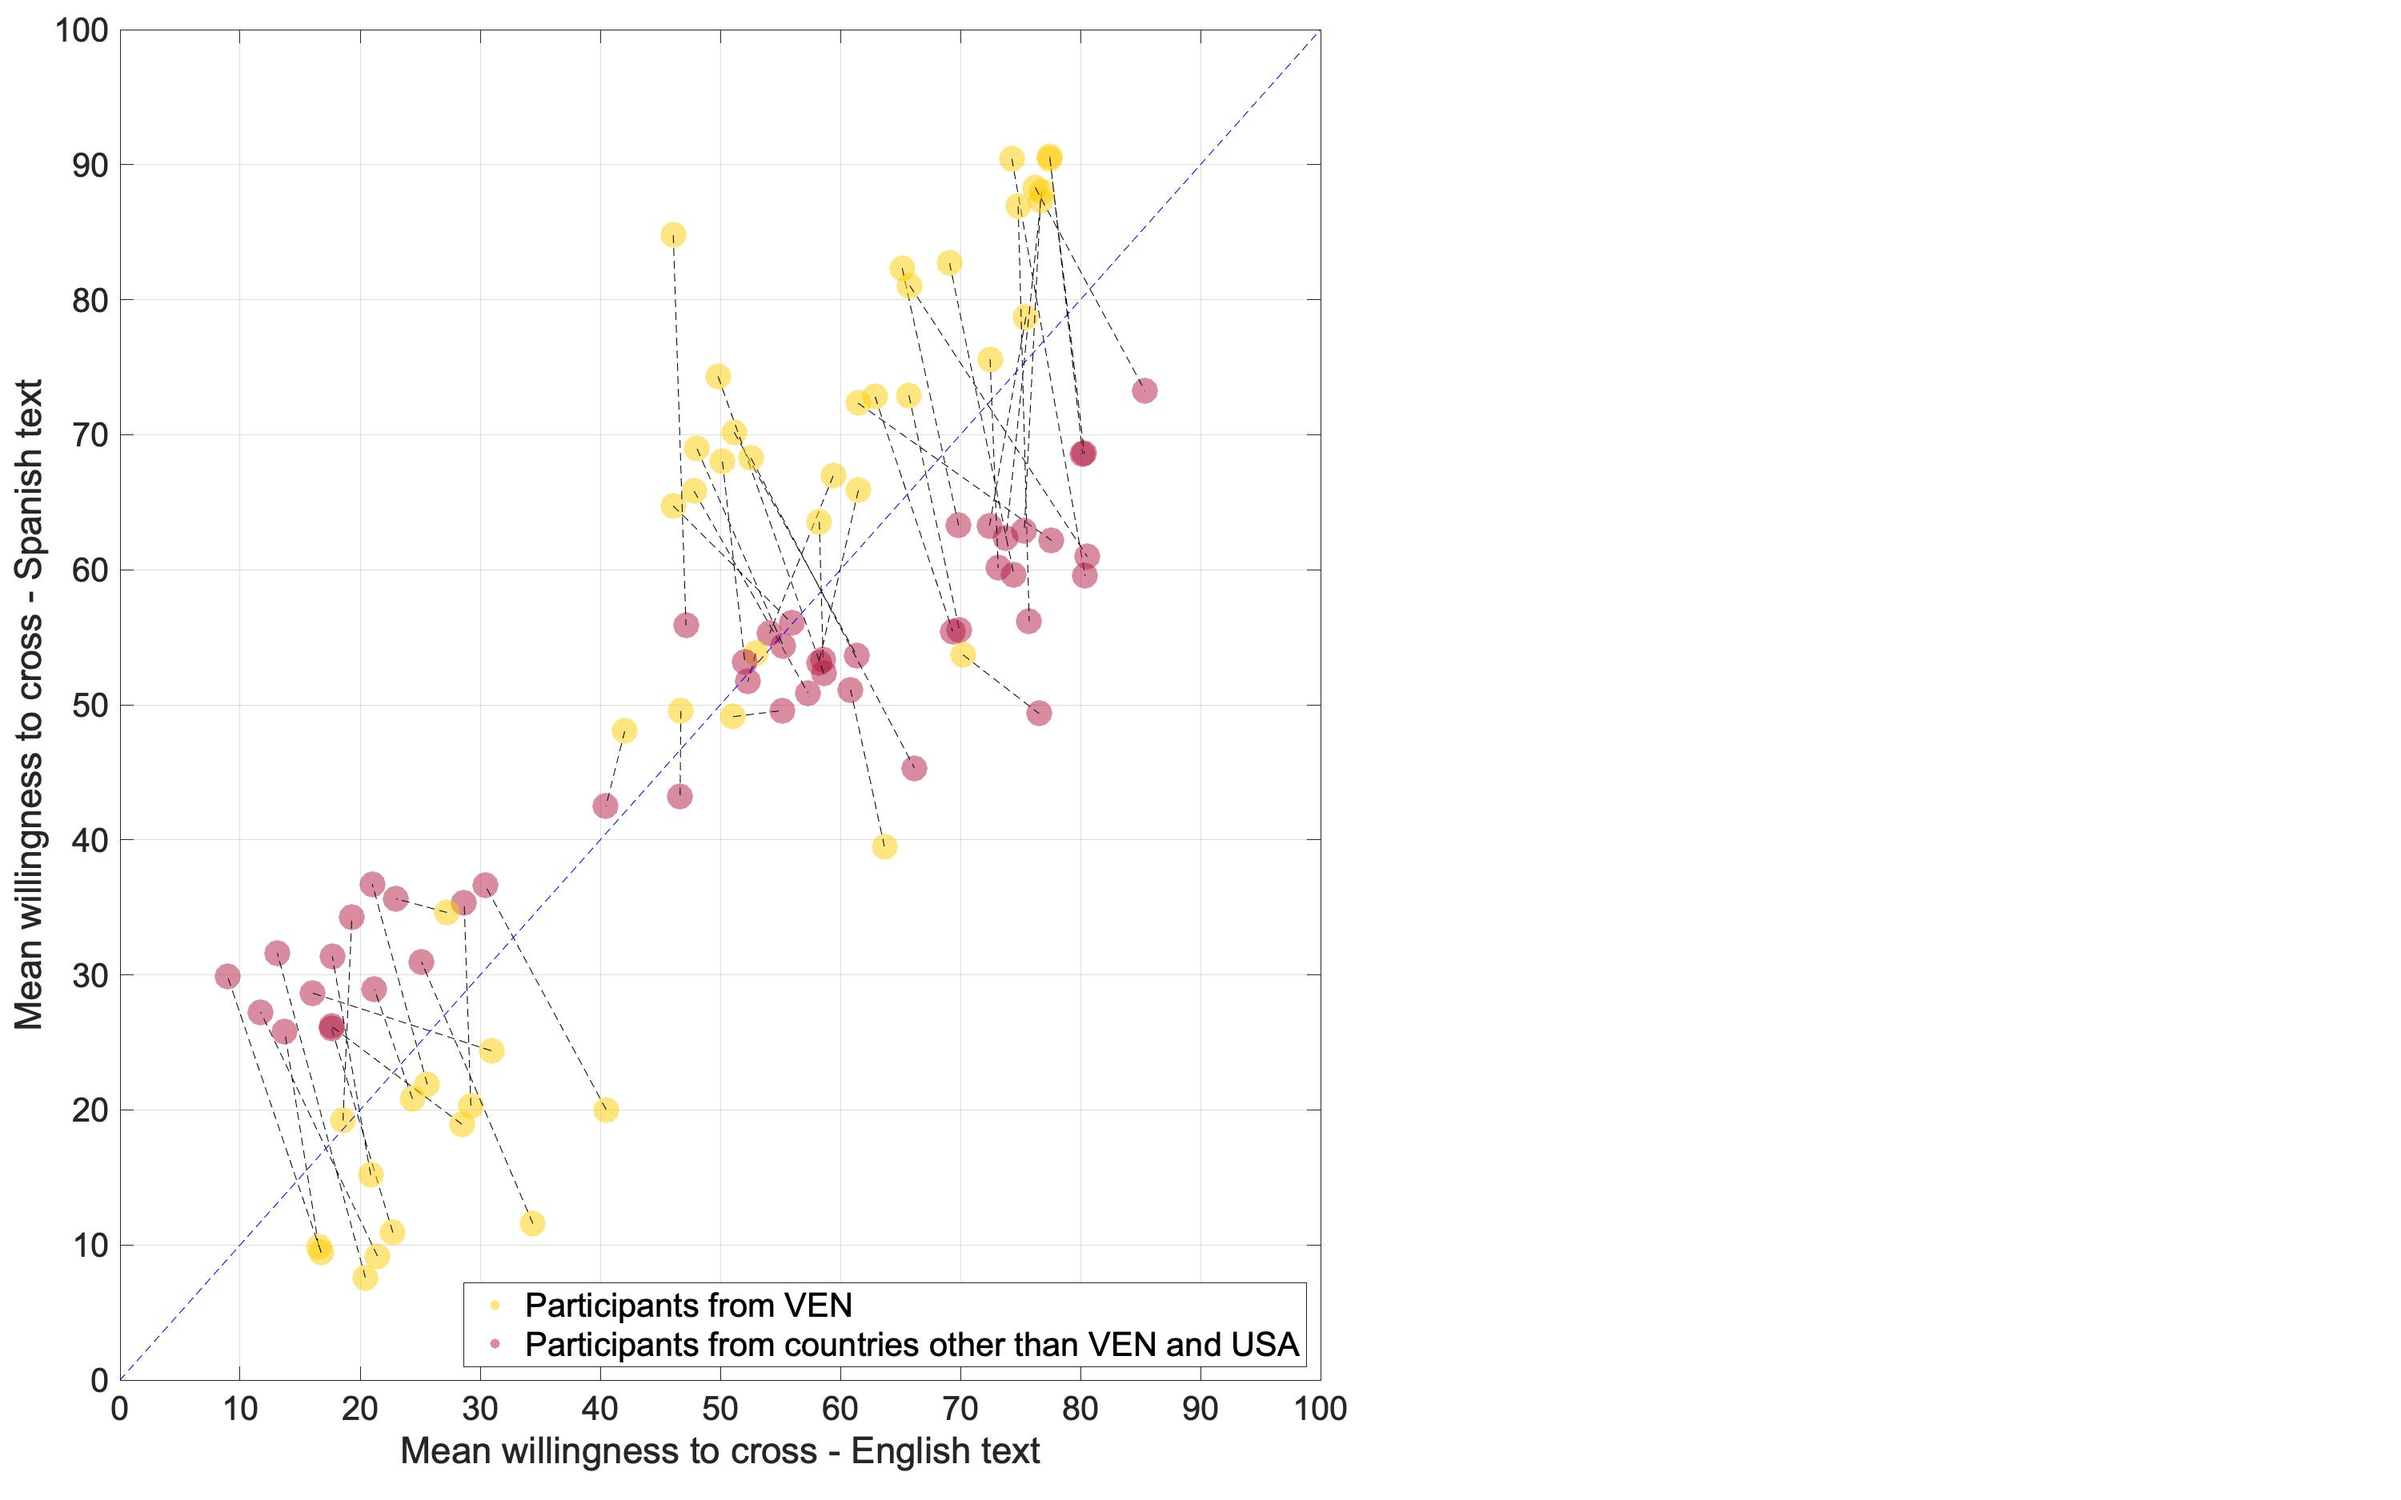
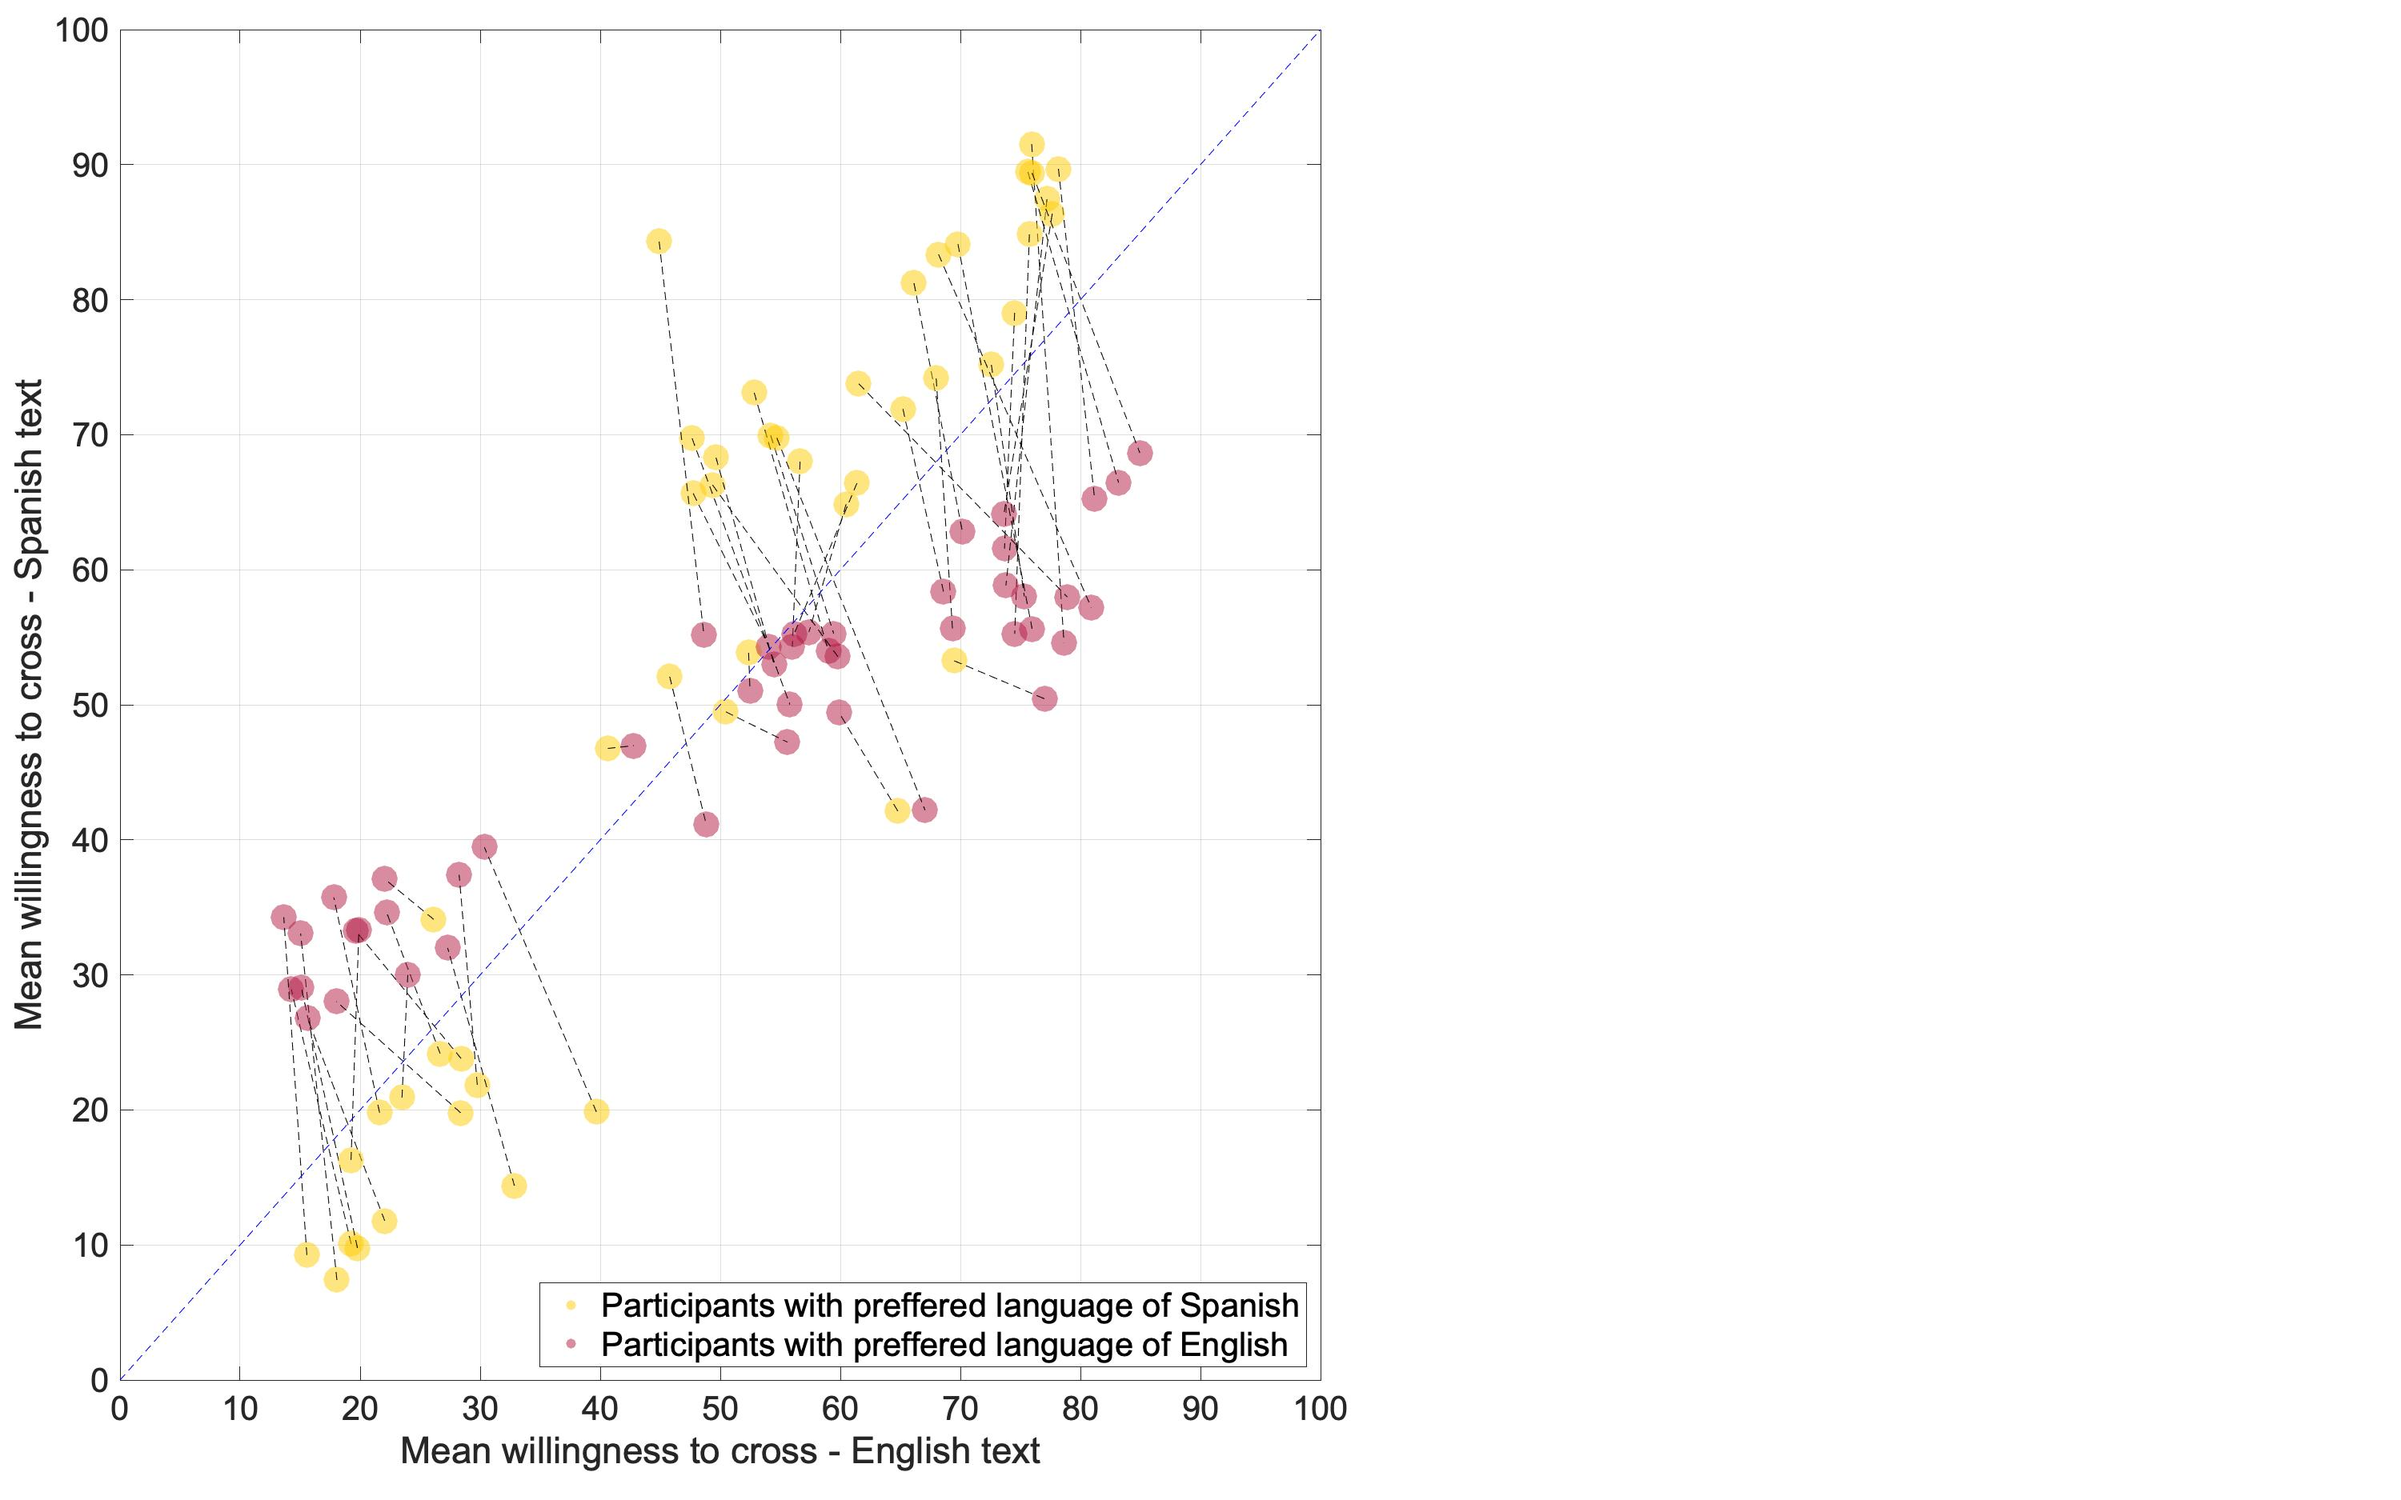
Detected language

diff --git a/textehmi/analysis/analysis.m b/textehmi/analysis/analysis.m
@@ -9,7 +9,7 @@ N_PERSON = 80;    % number of stimuli per person
 STEP_COLOUR = 5;  % step for traversing over colourmap
 COLOUR_SAME_EHMI = false;  % flag for colouring eHMI in ES/EN on figures
                            % with all eHMI
-SAVE_FIGURES = true;       % flag for saving figures as EPS and JPG files
+SAVE_FIGURES = false;       % flag for saving figures as EPS and JPG files
 
 %% ************************************************************************
 %% Load config
@@ -58,21 +58,21 @@ mapping = readtable(config.mapping);
 %% ************************************************************************
 %% OUTPUT
 %% ************************************************************************
-RT = X(:, 26:105);  % amount of time used to press the key
-RP = X(:, 106:185);  % response from the slider
+opengl hardware
+%% Prepare data
+RT = X(:, 26:105);       % amount of time used to press the key
+RP = X(:, 106:185);      % response from the slider
 imageid = X(:,186:265);  % image ids as shown
+lang_es = X(:,266);      % language (1=Spanish, 0=not Spanish)
 eHMI_text=mapping(:,2);  % labels with eHMIs
-
-%% Order based on image number
+% Order based on image number
 [RPo,RTo]=deal(NaN(size(RP,1),N_STIMULI));
 for i=1:size(RP,1) % loop over pp
     % TODO: check if no matlab logic is broken with conversion from 0 to 1 for index
     RPo(i,imageid(i,:)+1)=RP(i,:);
     RTo(i,imageid(i,:)+1)=RT(i,:);
 end
-
-%% Median willingness to cross
-opengl hardware
+% Median willingness to cross
 [RPoMed,RPoSTD,RPoMedVE,RPoMedUS,RToMedVE,RToMedUS]=deal(NaN(N_STIMULI,1));
 for i=1:size(RPo,2)
     RPoMed(i)=nanmedian(RPo(:,i))-nanstd(RPo(:,i))/10^6; % equal medians sorted on SD
@@ -83,8 +83,24 @@ for i=1:size(RPo,2)
     RToMedUS(i)=nanmedian(RTo(contains(Country,'US'),i)); % median RT participants from USA
 end
 [RPoMedSorted,b]=sort(RPoMed);
-% build xticks
 eHMI_text_MedSorted=char(eHMI_text{b,:});
+% Mean willingness to cross
+[RPoMean,RPoSTD,RPoMeanVE,RPoMeanUS,RToMeanVE,RToMeanUS,o,NN]=deal(NaN(N_STIMULI,1));
+for i=1:size(RPo,2)
+    RPoMean(i)=nanmean(RPo(:,i))-nanstd(RPo(:,i))/10^6; % equal mean sorted on SD
+    RPoSTD(i)=nanstd(RPo(:,i));
+    RPoMeanVE(i)=nanmean(RPo(contains(Country,'VE'),i)); % mean for participants from VEN
+    RPoMeanUS(i)=nanmean(RPo(contains(Country,'US'),i)); % mean for participants from USA
+    RToMeanVE(i)=nanmean(RTo(contains(Country,'VE'),i)); % mean RT participants from VEN
+    RToMeanUS(i)=nanmean(RTo(contains(Country,'US'),i)); % mean RT participants from USA  
+end
+[RPoMeanSorted,b]=sort(RPoMean);
+eHMI_text_MeanSorted=char(eHMI_text{b,:});
+% SD willingness to cross
+[RPoSTDSorted,bs]=sort(RPoSTD);
+eHMI_text_STDSorted=char(eHMI_text{bs,:});
+
+%% Median willingness to cross for all stimuli
 figure;
 hold on;
 grid on;
@@ -131,20 +147,54 @@ if SAVE_FIGURES
     export_figure(gcf, [config.path_figures filesep 'median-cross'], 'jpg')
 end
 
-%% Mean willingness to cross
-opengl hardware
-[RPoMean,RPoSTD,RPoMeanVE,RPoMeanUS,RToMeanVE,RToMeanUS,o,NN]=deal(NaN(N_STIMULI,1));
-for i=1:size(RPo,2)
-    RPoMean(i)=nanmean(RPo(:,i))-nanstd(RPo(:,i))/10^6; % equal mean sorted on SD
-    RPoSTD(i)=nanstd(RPo(:,i));
-    RPoMeanVE(i)=nanmean(RPo(contains(Country,'VE'),i)); % mean for participants from VEN
-    RPoMeanUS(i)=nanmean(RPo(contains(Country,'US'),i)); % mean for participants from USA
-    RToMeanVE(i)=nanmean(RTo(contains(Country,'VE'),i)); % mean RT participants from VEN
-    RToMeanUS(i)=nanmean(RTo(contains(Country,'US'),i)); % mean RT participants from USA  
+%% Median willingness to cross for limited number of  stimuli
+figure;
+hold on;
+grid on;
+box on;
+for i=1:N_STIMULI % loop over eHMIs
+    bar_obj(i) = bar(i,1+RPoMedSorted(i),'barwidth',1,'facecolor','b','edgecolor','k');
 end
-[RPoMeanSorted,b]=sort(RPoMean);
-% build xticks
-eHMI_text_MeanSorted=char(eHMI_text{b,:});
+% assign colours to pairs of EN and ES eHMIs
+if COLOUR_SAME_EHMI
+    cmap = colormap(jet); % choose colormap
+    counter_colour = 1;  % counter for assigned colours
+    for i=1:N_STIMULI % loop over eHMIs
+        % get index in cell array
+        ehmi = strtrim(eHMI_text_MedSorted(i,:));
+        % check if there is Spanish translation
+        if find(ismember(mapping{:,10}, ehmi))
+            index_es = find(ismember(mapping{:,10}, ehmi));
+            ehmi_es = char(mapping{index_es,2});
+            % find index of ES eHMI
+            for j=1:N_STIMULI % loop over eHMIs
+                ehmi_tick_trimmed = strtrim(eHMI_text_MedSorted(j,:));
+                if strcmp(ehmi_es, ehmi_tick_trimmed)
+                    i_es = j;
+                    break;
+                end
+            end
+            % set colour
+            set(bar_obj(i),'FaceColor', cmap(counter_colour,:));
+            set(bar_obj(i_es),'FaceColor', cmap(counter_colour,:));
+            counter_colour = counter_colour + 5;
+        end
+    end
+end
+set(gca,'xlim',[-1 N_STIMULI+1],'tickdir','out','ylim',[0 100],'xtick',[1:1:N_STIMULI])
+set(gca,'xticklabel',eHMI_text_MedSorted)
+xlabel('eHMI');
+ylabel('Median willingness to cross (%)')
+h=findobj('FontName','Helvetica');
+set(h,'FontSize',8,'Fontname','Arial')
+set(gca,'LooseInset',[0.01 0.01 0.01 0.01])
+% maximise and export as eps and jpg (for readme)
+if SAVE_FIGURES
+    export_figure(gcf, [config.path_output filesep 'median-cross-top-bottom'], 'epsc')
+    export_figure(gcf, [config.path_figures filesep 'median-cross-top-bottom'], 'jpg')
+end
+
+%% Mean willingness to cross for all stimuli
 figure;
 hold on;
 grid on;
@@ -191,10 +241,7 @@ if SAVE_FIGURES
     export_figure(gcf, [config.path_figures filesep 'mean-cross'], 'jpg')
 end
 
-%% SD willingness to cross - Please cross
-[RPoSTDSorted,bs]=sort(RPoSTD);
-% build xticks
-eHMI_text_STDSorted=char(eHMI_text{bs,:});
+%% SD willingness to cross for all stimuli
 figure;
 hold on;
 box on;
@@ -345,19 +392,19 @@ for i=1:47 % loop over 47 Spanish eHMI texts
 end
 figure;hold on;grid on;box on
 for i=1:47
-    scatter1 = scatter(nanmean(RPo(contains(Country,'VE'),Ewi(i))), nanmean(RPo(contains(Country,'VE'),i+180)), 250, ...
+    scatter1 = scatter(nanmean(RPo(lang_es==1,Ewi(i))), nanmean(RPo(lang_es==1,i+180)), 250, ...
         'markerfacecolor', [255, 204, 0]/255, ...
         'markeredgecolor', 'none');
-    scatter2 = scatter(nanmean(RPo(~contains(Country,'VE') & ~contains(Country,'US'),Ewi(i))), nanmean(RPo(~contains(Country,'VE') & ~contains(Country,'US'),i+180)), 250, ...
+    scatter2 = scatter(nanmean(RPo(lang_es==0,Ewi(i))), nanmean(RPo(lang_es==0,i+180)), 250, ...
         'markerfacecolor', [179, 25, 66]/255, ...
         'markeredgecolor', 'none');
-    plot([nanmean(RPo(contains(Country,'VE'),Ewi(i))) nanmean(RPo(~contains(Country,'VE') & ~contains(Country,'US'),Ewi(i)))],...
-        [nanmean(RPo(contains(Country,'VE'),i+180)) nanmean(RPo(~contains(Country,'VE') & ~contains(Country,'US'),i+180))],'k--')
+    plot([nanmean(RPo(lang_es==1,Ewi(i))) nanmean(RPo(lang_es==0,Ewi(i)))],...
+        [nanmean(RPo(lang_es==1,i+180)) nanmean(RPo(lang_es==0,i+180))],'k--')
     scatter1.MarkerFaceAlpha = 0.5;
     scatter2.MarkerFaceAlpha = 0.5;
 end
     plot([0 100],[0 100],'b--')
-legend('Participants from VEN','Participants from countries other than VEN and USA','location','southeast')
+legend('Participants with preffered language of Spanish','Participants with preffered language of English','location','southeast')
 xlabel('Mean willingness to cross - English text');
 ylabel('Mean willingness to cross - Spanish text');
 h=findobj('FontName','Helvetica');

diff --git a/textehmi/analysis/process_experiment.m b/textehmi/analysis/process_experiment.m
@@ -11,7 +11,7 @@ function [X, Country] = process_experiment(appen_file, appen_indices, heroku_fil
     raw_appen = readtable(appen_file, 'ReadVariableNames', false);
     raw_appen = table2cell(raw_appen);  % convert to cell array for ease of checking
     %% Filter appen data
-    X=NaN(size(raw_appen,1),267);
+    X=NaN(size(raw_appen,1),268);
     disp(['Number of respondents = ' num2str(size(raw_appen, 1))])
     temp=raw_appen(:,appen_indices(1));X(:,1)=strcmp(temp,'no')+2*strcmp(temp,'yes'); % Instructions understood
     temp=raw_appen(:,appen_indices(2));X(:,2)=1*strcmp(temp,'female')+2*strcmp(temp,'male')-1*strcmp(temp,'i_prefer_not_to_respond'); % Gender
@@ -52,13 +52,22 @@ function [X, Country] = process_experiment(appen_file, appen_indices, heroku_fil
     disp(['Last survey end date - Before filtering = ' datestr(max(X(:,24)))]);
     %%
     % Worker id
-    temp=raw_appen(:,appen_indices(26));for i=1:length(temp);try if strcmp(temp(i),'?');X(i,267)=NaN;else;X(i,267)= cell2mat(temp(i));end;catch error;X(i,267)=NaN;end;end % worker id
+    temp=raw_appen(:,appen_indices(26));for i=1:length(temp);try if strcmp(temp(i),'?');X(i,268)=NaN;else;X(i,268)= cell2mat(temp(i));end;catch error;X(i,268)=NaN;end;end % worker id
     %% Process keypress data
     disp('Processing keypress data');
     counter_code = 0;
     for i1=1:size(raw_heroku,1) % loop over rows
         temp=cell2mat(table2array(raw_heroku(i1,29)));
         temp2=cell2mat(table2array(raw_heroku(i1,29+N_STIMULI-1)));
+        % detect if the browser language is Spanish
+        temp3=cell2mat(table2array(raw_heroku(i1,28)));
+        % browser language in heroku data
+        browser_fetched = temp3(regexp(temp3,'browser_lang:')+14:end-1);
+        if contains(browser_fetched, 'es')
+            browser_lang = 1;
+        else
+            browser_lang = 0;
+        end
         extracted_row=table2array(raw_heroku(i1,29+N_STIMULI:end));
         imageid(i1,:)=[str2double(temp(12:end)) table2array(raw_heroku(i1,30:29+N_STIMULI-2)) str2num(temp2(1:regexp(temp2,']')-1))];
         counter1=0;
@@ -88,7 +97,8 @@ function [X, Country] = process_experiment(appen_file, appen_indices, heroku_fil
             X(row_appen_matched, 26:105)=RT(i1,:);
             X(row_appen_matched, 106:185)=RP(i1,:);
             X(row_appen_matched, 186:265)=imageid(i1,1:80);
-            X(row_appen_matched, 266)=1;  % flag that row was matched
+            X(row_appen_matched, 266)=browser_lang;  % browser language
+            X(row_appen_matched, 267)=1;  % flag that row was matched
         end
     end
     %% Remove participants who did not meet the criteria
@@ -135,6 +145,8 @@ function [X, Country] = process_experiment(appen_file, appen_indices, heroku_fil
     disp(['Gender, I prefer not to respond = ' num2str(sum(isnan(X(:,2))))])
     disp(['Age, mean = ' num2str(nanmean(X(:,3)))])
     disp(['Age, sd = ' num2str(nanstd(X(:,3)))])
+    %% Language
+    disp(['Browser language set to Spanish = ' num2str(sum(X(:,266)))])
     %% Survey time
     disp(['Survey time mean (minutes) - After filtering = ' num2str(nanmean(X(:,25)/60))]);
     disp(['Survey time median (minutes) - After filtering = ' num2str(nanmedian(X(:,25)/60))]);
